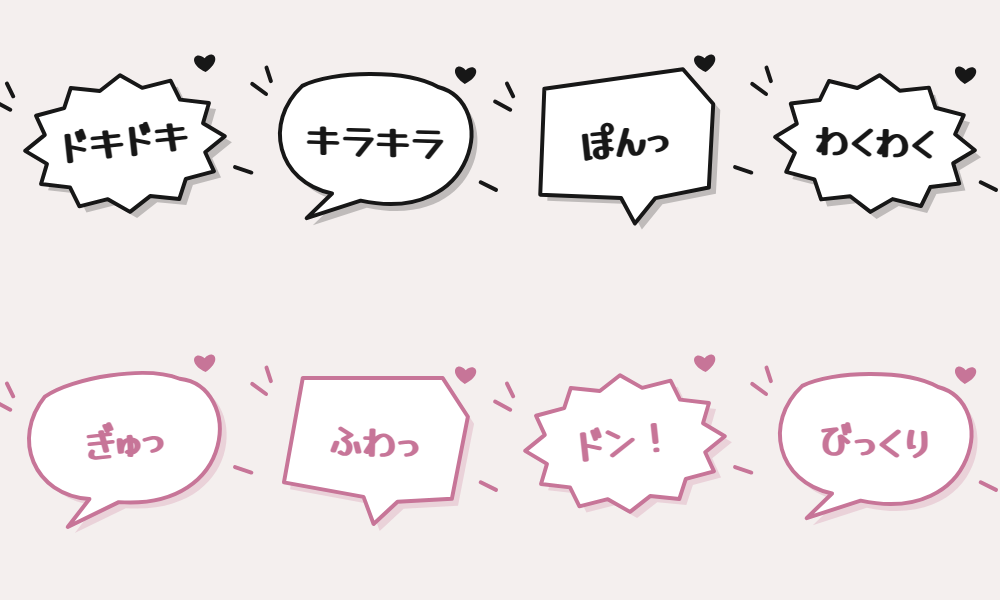
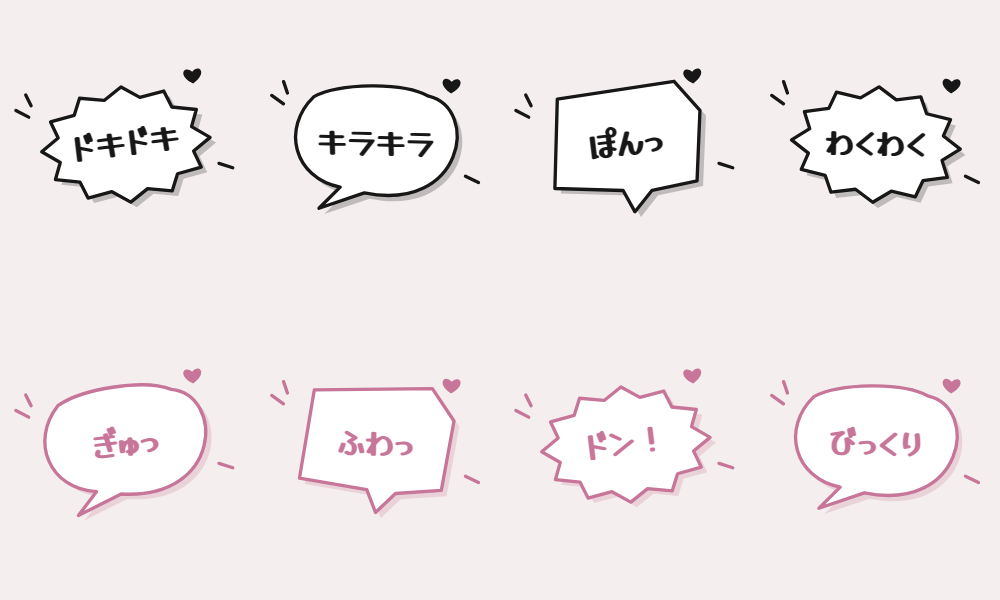
v2.12.0: handwritten Japanese and Chinese click effects and trails

diff --git a/index.js b/index.js
@@ -1,4 +1,4 @@
-import { mangaPacks, spawnManga, drawManga, prepareMangaFont } from './manga.js';
+import { mangaTrails, drawMangaTrail, mangaPacks, spawnManga, drawManga, prepareMangaFont } from './manga.js';
 import { celebrationPacks, celebrationMotions, modelMotions, spawnCelebration, drawCelebration } from './celebration.js';
 import { createOrdering } from './ordering.js';
 import { butterflyTrails, makeButterflyTrail, drawButterflyTrail } from './butterfly-trails.js';
@@ -49,6 +49,7 @@ function validatePack(p){
  if(p.motifs!==undefined){if(!Array.isArray(p.motifs)||!p.motifs.length||p.motifs.length>12||p.motifs.some(m=>!['pear','leaf','flower','heart','star'].includes(m)))throw Error('不支持的纯色图案。');v.motifs=[...p.motifs];}
  if(p.shape!==undefined){if(!['square','circle','diamond','star'].includes(p.shape))throw Error('不支持的粒子形状。');v.shape=p.shape;}
  if(p.motion!==undefined){if(!['flutter','fall','bubble','snow','music','ripple','wave','fountain','glitter','blossom','pixel-text','manga',...celebrationMotions].includes(p.motion))throw Error('不支持的运动方式。');v.motion=p.motion;}
+ if(p.motion==='manga'){if(p.mangaStyle!==undefined&&!['balloon','handwritten'].includes(p.mangaStyle))throw Error('漫画样式无效。');if(p.language!==undefined&&!['ja','zh'].includes(p.language))throw Error('漫画语言无效。');v.mangaStyle=p.mangaStyle||'balloon';v.language=p.language||'ja';}
  if(p.sparkles!==undefined){if(typeof p.sparkles!=='boolean')throw Error('小粒子开关无效。');v.sparkles=p.sparkles;}
  if(p.motion==='pixel-text'){if(!supportedLabels.includes(p.label)||!['pear','butterfly','leaf','sprite','flower','cross','pear-tint','spark'].includes(p.companions)||p.colors.length<2)throw Error('像素字或伴随图案无效。');if(p.companions==='sprite'&&!p.images.length)throw Error('缺少伴随图片。');v.label=p.label;v.companions=p.companions;}
  if(p.paired!==undefined){if(typeof p.paired!=='boolean'||(p.paired&&(p.images.length<2||p.images.length%2)))throw Error('双蝶标记无效。');v.paired=p.paired;}
@@ -86,7 +87,7 @@ const trailPacks=[
  {id:'neon',name:'赛博霓虹 · 光丝',colors:['#00f5ff','#ff21d0','#aa55ff'],glow:10},
  {id:'mono',name:'黑白 · 银线',colors:['#171717','#ffffff','#a8a8a8'],glow:0},
  {id:'pear',name:'梨梨 · 黄绿糖丝',colors:['#ffe66d','#a9dc65','#fff5bd'],glow:3},
- {id:'aurora',name:'极光 · 蓝紫流光',colors:['#a0e7ff','#baadff','#f3cbff'],glow:7}, ...ornamentTrails, pearTrail, pinkPearTrail, ...pixelTrails, ...butterflyTrails
+ {id:'aurora',name:'极光 · 蓝紫流光',colors:['#a0e7ff','#baadff','#f3cbff'],glow:7}, ...ornamentTrails, pearTrail, pinkPearTrail, ...pixelTrails, ...butterflyTrails, ...mangaTrails
 ];
 const activeTrails=()=>[selectedTrail(),...trailPacks.filter(p=>p.id===prefs.trailExtra&&p.id!==selectedTrail().id)];
 const selectedTrail=()=>trailPacks.find(p=>p.id===prefs.trailSelected)||trailPacks[0];
@@ -256,7 +257,7 @@ function spawnPack(p,x,y,rect,num,now){
 }
 function drawTrails(now){
  trails=trails.filter(p=>now-p.time<p.duration);ctx.save();ctx.lineCap='round';ctx.lineJoin='round';
- for(const p of trails){if(p.motif==='pixel-pear'||p.motif==='pixel-grass'){drawPixelTrail(ctx,p,now);continue;}if(p.motif==='butterfly'){drawButterflyTrail(ctx,p,now);continue;}if(p.motif==='pear-emoji'||p.motif==='pear-pink'){drawPearTrail(ctx,p,now);continue;}if(p.motif){drawOrnamentTrail(ctx,p,now);continue;}const t=(now-p.time)/p.duration,alpha=Math.pow(1-t,1.7);ctx.globalAlpha=alpha;
+ for(const p of trails){if(p.motif==='manga-lettering'){drawMangaTrail(ctx,p,now);continue;}if(p.motif==='pixel-pear'||p.motif==='pixel-grass'){drawPixelTrail(ctx,p,now);continue;}if(p.motif==='butterfly'){drawButterflyTrail(ctx,p,now);continue;}if(p.motif==='pear-emoji'||p.motif==='pear-pink'){drawPearTrail(ctx,p,now);continue;}if(p.motif){drawOrnamentTrail(ctx,p,now);continue;}const t=(now-p.time)/p.duration,alpha=Math.pow(1-t,1.7);ctx.globalAlpha=alpha;
   for(let i=0;i<p.amount;i++){const offset=(i-(p.amount-1)/2)*3*p.size,dx=p.x-p.px,dy=p.y-p.py,len=Math.hypot(dx,dy)||1,nx=-dy/len*offset,ny=dx/len*offset,color=p.colors[i%p.colors.length];ctx.strokeStyle=color;ctx.shadowColor=color;ctx.shadowBlur=p.glow;ctx.lineWidth=(1.8-i*.16)*p.size*(1-t*.55);ctx.beginPath();ctx.moveTo(p.px+nx,p.py+ny);ctx.quadraticCurveTo((p.px+p.x)/2+nx,(p.py+p.y)/2+ny,p.x+nx,p.y+ny);ctx.stroke();}
  }ctx.restore();
 }
@@ -267,7 +268,7 @@ function trailMove(x,y,target,state){
  const rect=!trails.length?raise(target):layer.getBoundingClientRect(),point={x:x-rect.left,y:y-rect.top,time:now,session:trailSession};state.last=point;
  if(!prev||prev.session!==trailSession||now-prev.time>140||Math.hypot(point.x-prev.x,point.y-prev.y)>160)return;
  if(Math.hypot(point.x-prev.x,point.y-prev.y)<2){state.last=prev;return;}
- state.emittedByPack??={};for(const p of activeTrails()){const emitted=state.emittedByPack[p.id];if(p.motif&&emitted&&emitted.session===trailSession&&now-emitted.time<(p.motif==='butterfly'?(prefs.lightweight?110:70):(p.motif==='pear-emoji'||p.motif==='pear-pink'||p.motif==='pixel-pear'||p.motif==='pixel-grass')?85:p.motif==='wave'?85:35))continue;state.emittedByPack[p.id]=point;const butterflies=p.motif==='butterfly'?makeButterflyTrail(p,Math.round(prefs.trailAmount),prefs.lightweight,loadImage):null;trails.push({...point,packId:p.id,butterflies,motif:p.motif,phase:Math.random()*Math.PI*2,px:prev.x,py:prev.y,duration:prefs.trailDuration,amount:prefs.lightweight?1:Math.round(prefs.trailAmount),size:prefs.trailSize,colors:p.colors,glow:prefs.lightweight?0:p.glow});}trails=trails.slice(-80);if(!raf)raf=host.requestAnimationFrame(frame);
+ state.emittedByPack??={};for(const p of activeTrails()){const emitted=state.emittedByPack[p.id];if(p.motif&&emitted&&emitted.session===trailSession&&now-emitted.time<(p.motif==='manga-lettering'?(prefs.lightweight?230:160):p.motif==='butterfly'?(prefs.lightweight?110:70):(p.motif==='pear-emoji'||p.motif==='pear-pink'||p.motif==='pixel-pear'||p.motif==='pixel-grass')?85:p.motif==='wave'?85:35))continue;state.emittedByPack[p.id]=point;const butterflies=p.motif==='butterfly'?makeButterflyTrail(p,Math.round(prefs.trailAmount),prefs.lightweight,loadImage):null;trails.push({...point,packId:p.id,language:p.language,variant:Math.floor(Math.random()*8),butterflies,motif:p.motif,phase:Math.random()*Math.PI*2,px:prev.x,py:prev.y,duration:prefs.trailDuration,amount:prefs.lightweight?1:Math.round(prefs.trailAmount),size:prefs.trailSize,colors:p.colors,glow:prefs.lightweight?0:p.glow});}trails=trails.slice(-80);if(!raf)raf=host.requestAnimationFrame(frame);
 }
 function clearTrail(){trails=[];trailSession++;}
 function inputHit(x,y,target,kind){totalHits++;lastInput=kind;lastActive=Date.now();if(!target?.closest?.('[data-lpx-preview]'))burst(x,y,target);}
@@ -387,7 +388,7 @@ function openManager(page='gallery',container=null){
  const row=el('label','lpx-row'),toggle=el('input');toggle.type='checkbox';toggle.checked=!!prefs.trailEnabled;row.append(toggle,doc.createTextNode('滑动拖尾'));listen(toggle,'change',()=>{prefs.trailEnabled=toggle.checked;clearTrail();persist();});body.append(row,el('p','lpx-muted','拖尾可以任选两款叠加，在下方试滑。点小爱心收藏置顶，↑↓ 调整同类顺序。'));
  const grid=el('div','lpx-gallery');body.append(grid);
  const pairLabel=el('label','lpx-upload-label','叠加第二款（拖尾）'),pair=el('select','lpx-input');pair.setAttribute('aria-label','叠加第二款拖尾');const none=el('option',null,'不叠加');none.value='';pair.append(none);for(const p of trailOrder.sort(trailPacks)){if(p.id===selectedTrail().id)continue;const option=el('option',null,p.name);option.value=p.id;pair.append(option);}pair.value=prefs.trailExtra||'';listen(pair,'change',()=>{prefs.trailExtra=pair.value;clearTrail();persist();show('trails');});pairLabel.append(pair);grid.before(pairLabel);
- const orderedTrails=trailOrder.sort(trailPacks);for(const p of orderedTrails){const card=el('article','lpx-card'+(activeTrails().some(q=>q.id===p.id)?' is-selected':'')),thumb=button('',()=>{prefs.trailSelected=p.id;if(prefs.trailExtra===p.id)prefs.trailExtra='';prefs.trailEnabled=true;clearTrail();persist();show('trails');tell('正在使用：'+p.name);},'lpx-thumb');thumb.setAttribute('aria-label','使用拖尾 '+p.name);thumb.dataset.lpxPreview='true';card.dataset.trailId=p.id;if(p.motif==='butterfly'){thumb.classList.add('lpx-contrast');for(let i=0;i<4;i++){const img=el('img');img.src=p.images[i];img.alt='';img.style.cssText=`left:${12+i*22}%;top:${25+i%2*22}%;filter:hue-rotate(${p.hues?.[i]||0}deg)`;thumb.append(img);}}else if(p.motif){thumb.classList.add('lpx-contrast');thumb.append(motifPreview(p.motif,p.colors));}else for(let i=0;i<3;i++){const line=el('i');line.style.cssText=`position:absolute;left:15%;top:${35+i*13}%;width:70%;height:2px;background:${p.colors[i]};transform:rotate(-12deg);border-radius:99px;box-shadow:0 0 ${p.glow}px ${p.colors[i]}`;thumb.append(line);}card.append(thumb,el('div','lpx-card-title',p.name),orderControls(p,trailOrder,trailPacks,orderedTrails,null,()=>show('trails')));grid.append(card);}
+ const orderedTrails=trailOrder.sort(trailPacks);for(const p of orderedTrails){const card=el('article','lpx-card'+(activeTrails().some(q=>q.id===p.id)?' is-selected':'')),thumb=button('',()=>{prefs.trailSelected=p.id;if(prefs.trailExtra===p.id)prefs.trailExtra='';prefs.trailEnabled=true;clearTrail();persist();show('trails');tell('正在使用：'+p.name);},'lpx-thumb');thumb.setAttribute('aria-label','使用拖尾 '+p.name);thumb.dataset.lpxPreview='true';card.dataset.trailId=p.id;if(p.motif==='butterfly'){thumb.classList.add('lpx-contrast');for(let i=0;i<4;i++){const img=el('img');img.src=p.images[i];img.alt='';img.style.cssText=`left:${12+i*22}%;top:${25+i%2*22}%;filter:hue-rotate(${p.hues?.[i]||0}deg)`;thumb.append(img);}}else if(p.motif==='manga-lettering'){const c=el('canvas');c.width=280;c.height=160;c.style.cssText='width:100%;height:100%';const paint=()=>{const cx=c.getContext('2d');cx.clearRect(0,0,280,160);for(let i=0;i<3;i++)drawMangaTrail(cx,{...p,x:48+i*90,y:82+Math.sin(i)*10,time:0,duration:1000,size:1.5,variant:i},300);};paint();prepareMangaFont(doc).then(paint);thumb.append(c);}else if(p.motif){thumb.classList.add('lpx-contrast');thumb.append(motifPreview(p.motif,p.colors));}else for(let i=0;i<3;i++){const line=el('i');line.style.cssText=`position:absolute;left:15%;top:${35+i*13}%;width:70%;height:2px;background:${p.colors[i]};transform:rotate(-12deg);border-radius:99px;box-shadow:0 0 ${p.glow}px ${p.colors[i]}`;thumb.append(line);}card.append(thumb,el('div','lpx-card-title',p.name),orderControls(p,trailOrder,trailPacks,orderedTrails,null,()=>show('trails')));grid.append(card);}
  const pad=el('div','lpx-trail-pad','在这里滑一滑 ✧');pad.dataset.lpxPreview='true';body.append(pad,button('调整拖尾数量与大小',()=>show('settings')));
  }
  function renderUpload(){
@@ -484,7 +485,7 @@ listen(doc,'visibilitychange',()=>{if(!doc.hidden)recoverEntries();else{particle
 listen(doc,'pointerdown',e=>{if(e.target?.closest?.('#extensionsMenuButton,#extensions-settings-button,#extensionsMenu,#extensions_settings,#extensions_settings2'))recoverEntries();},{capture:true,passive:true});
 listen(doc,'click',e=>{if(e.target?.closest?.('#extensionsMenuButton,#extensions-settings-button'))recoverEntries();},{capture:true,passive:true});
 function destroy(){if(stopped)return;stopped=true;clearWaterCache();clearTrail();particles=[];abort.abort();observer.disconnect();host.clearInterval(interval);timers.forEach(id=>host.clearTimeout(id));if(raf)host.cancelAnimationFrame(raf);if(scanFrame)host.cancelAnimationFrame(scanFrame);closeManager();layer.remove();sheet.remove();panelEntry?.remove();wandEntry?.remove();disposers.forEach(fn=>{try{fn();}catch{}});if(host[KEY]?.destroy===destroy)delete host[KEY];if(host.__liSparkling?.destroy===destroy){delete host.__liSparkling;host.dispatchEvent(new host.Event('li-sparkling:change'));}}
-host[KEY]={owner:'li-sparkling',apiVersion:1,version:'2.11.0',isAvailable:()=>!stopped,mount:container=>openManager('gallery',container),unmount:container=>{if(container&&manager?.parentElement===container)closeManager();},destroy,openManager,importPacks,renamePack,deletePack,exportPack:async()=>({format:'lili-click-effects',version:1,packs:[await portablePack(selected())]}),getDiagnostics:()=>({hits:totalHits,input:lastInput,particles:particles.length,trails:trails.length,trail:selectedTrail().id,activeTrails:activeTrails().map(p=>p.id),trailPackIds:[...new Set(trails.map(p=>p.packId))],trailEnabled:prefs.trailEnabled,canvasReady:!!ctx,theme:themeActive(),pack:selected().id,activePacks:activePacks().map(p=>p.id),images:selected().images.map((s,i)=>({ready:loadImage(s,selected().hues?.[i]||0).ready,error:loadImage(s,selected().hues?.[i]||0).error}))})};
+host[KEY]={owner:'li-sparkling',apiVersion:1,version:'2.12.0',isAvailable:()=>!stopped,mount:container=>openManager('gallery',container),unmount:container=>{if(container&&manager?.parentElement===container)closeManager();},destroy,openManager,importPacks,renamePack,deletePack,exportPack:async()=>({format:'lili-click-effects',version:1,packs:[await portablePack(selected())]}),getDiagnostics:()=>({hits:totalHits,input:lastInput,particles:particles.length,trails:trails.length,trail:selectedTrail().id,activeTrails:activeTrails().map(p=>p.id),trailPackIds:[...new Set(trails.map(p=>p.packId))],trailEnabled:prefs.trailEnabled,canvasReady:!!ctx,theme:themeActive(),pack:selected().id,activePacks:activePacks().map(p=>p.id),images:selected().images.map((s,i)=>({ready:loadImage(s,selected().hues?.[i]||0).ready,error:loadImage(s,selected().hues?.[i]||0).error}))})};
 host.__liSparkling=host[KEY];
 host.dispatchEvent(new host.Event('li-sparkling:change'));
 if(window!==host){

diff --git a/manga.js b/manga.js
@@ -1,16 +1,20 @@
 // Original vector speech balloons; Japanese lettering stays selectable in pack metadata.
 export const mangaWords=['ドキドキ','キラキラ','ぽんっ','わくわく','ぎゅっ','ふわっ','ドン！','びっくり'];
-export const mangaPacks=[['mono','黑白','#171717','#ffffff'],['pink','粉白','#c77598','#ffffff']].map(([id,name,ink,paper])=>({id:'lili-manga-'+id,name:name+' · 日文漫画对白',motion:'manga',images:[],colors:[ink,paper],count:1,size:64,duration:1800,spread:90,lift:45}));
+export const mangaPacks=[['mono','黑白','#171717','#ffffff'],['pink','粉白','#c77598','#ffffff']].map(([id,name,ink,paper])=>({id:'lili-manga-'+id,name:name+' · 日文漫画对白',motion:'manga',images:[],colors:[ink,paper],count:1,size:54,duration:1800,spread:90,lift:45}));
+export const handwrittenWords={ja:['ドキッ','ぎゅっ','ふわっ','きゅん','ぽんっ','わくわく','キラッ','ぴょん'],zh:['怦怦','啾～','哇！','呜哇','嘿嘿','喵呜','抱抱','贴贴']};
+for(const [language,label] of [['ja','日文'],['zh','中文']])for(const [color,name,ink] of [['mono','黑白','#171717'],['pink','粉白','#cc759d']])mangaPacks.push({id:`lili-handwritten-${language}-${color}`,name:`${name} · ${label}手写拟声词`,motion:'manga',mangaStyle:'handwritten',language,images:[],colors:[ink,'#ffffff'],count:1,size:52,duration:1700,spread:90,lift:45});
+export const mangaTrails=mangaPacks.filter(p=>p.mangaStyle==='handwritten').map(p=>({id:p.id.replace('lili-','')+'-trail',name:p.name+' · 拖尾',motif:'manga-lettering',language:p.language,colors:p.colors,glow:0}));
 export function spawnManga(pack,x,y,now,scale,width,height,variant=Math.floor(Math.random()*mangaWords.length)){
  const size=Math.min(pack.size*scale,width/3.2,height/3.2),pad=size*1.4;
- return {kind:'manga',x:Math.max(pad,Math.min(width-pad,x)),y:Math.max(pad,Math.min(height-pad,y)),size,start:now,duration:pack.duration,colors:pack.colors,variant};
+ return {mangaStyle:pack.mangaStyle,language:pack.language||'ja',kind:'manga',x:Math.max(pad,Math.min(width-pad,x)),y:Math.max(pad,Math.min(height-pad,y)),size,start:now,duration:pack.duration,colors:pack.colors,variant};
 }
 export function drawManga(ctx,p,now){
  const t=(now-p.start)/p.duration;if(t<=0||t>=1)return;
- ctx.save();ctx.translate(p.x,p.y-p.size*.28*t);ctx.rotate((p.variant%2?1:-1)*.07+Math.sin(t*12)*.018);
+ ctx.save();ctx.translate(p.x+Math.sin(t*52)*1.3*(1-t),p.y-p.size*.28*t);ctx.rotate((p.variant%2?1:-1)*.07+Math.sin(t*42)*.027*(1-t));
  const pop=t<.16?.65+.42*Math.sin(t/.16*Math.PI/2):1+.07*Math.exp(-(t-.16)*14);
  ctx.scale(p.size/64*pop,p.size/64*pop);ctx.globalAlpha=Math.min(1,t/.045)*Math.min(1,(1-t)/.25);
  const ink=p.colors[0],paper=p.colors[1]||'#ffffff';ctx.lineJoin='round';ctx.lineCap='round';
+ if(p.mangaStyle==='handwritten'){drawHandwritten(ctx,p,t);ctx.restore();return;}
  const balloon=()=>{ctx.beginPath();if(p.variant%3===0){for(let i=0;i<24;i++){const a=i/24*Math.PI*2,r=i%2?.82:1;const x=Math.cos(a)*76*r,y=Math.sin(a)*52*r;i?ctx.lineTo(x,y):ctx.moveTo(x,y);}ctx.closePath();}else if(p.variant%3===1){ctx.moveTo(-58,-40);ctx.bezierCurveTo(-86,-10,-72,34,-30,40);ctx.lineTo(-48,60);ctx.lineTo(-8,44);ctx.bezierCurveTo(82,57,92,-37,45,-46);ctx.bezierCurveTo(20,-58,-36,-53,-58,-40);ctx.closePath();}else{ctx.moveTo(-58,-46);ctx.lineTo(48,-53);ctx.lineTo(69,-25);ctx.lineTo(61,38);ctx.lineTo(20,43);ctx.lineTo(3,61);ctx.lineTo(-6,41);ctx.lineTo(-67,34);ctx.closePath();}};
  ctx.save();ctx.translate(5,5);balloon();ctx.globalAlpha*=.24;ctx.fillStyle=ink;ctx.fill();ctx.restore();balloon();ctx.fillStyle=paper;ctx.fill();ctx.strokeStyle=ink;ctx.lineWidth=3;ctx.stroke();
  // Two small speed accents and a drawn heart keep the decoration consistent on Android.
@@ -20,7 +24,25 @@ export function drawManga(ctx,p,now){
  const fit=Math.min(1,112/ctx.measureText(word).width);ctx.save();ctx.scale(fit,1);ctx.rotate(-.035);ctx.fillText(word,0,-2);ctx.restore();ctx.restore();
 }
 
-let fontReady;
+function heart(ctx,x,y,size,ink,paper){
+ ctx.save();ctx.translate(x,y);ctx.scale(size/24,size/24);ctx.beginPath();ctx.moveTo(0,9);ctx.bezierCurveTo(-26,-7,-12,-24,0,-11);ctx.bezierCurveTo(12,-24,26,-7,0,9);ctx.lineWidth=4;ctx.strokeStyle=paper;ctx.stroke();ctx.fillStyle=ink;ctx.fill();ctx.restore();
+}
+function drawHandwritten(ctx,p,t){
+ const ink=p.colors[0],paper=p.colors[1]||'#ffffff',word=handwrittenWords[p.language||'ja'][p.variant%8],chars=[...word],vertical=p.variant%2===0;
+ ctx.font=`${p.language==='zh'?'400':'900'} 42px "${p.language==='zh'?'Lili Brush CN':'Lili Manga'}",sans-serif`;ctx.textAlign='center';ctx.textBaseline='middle';ctx.lineJoin='round';
+ for(let i=0;i<chars.length;i++){
+  ctx.save();const step=vertical?29:32;ctx.translate(vertical?Math.sin(i*1.9)*7:(i-(chars.length-1)/2)*step,vertical?(i-(chars.length-1)/2)*step:Math.sin(i*1.6)*7);ctx.rotate((i%2?1:-1)*.12+Math.sin(t*40+i)*.025);const size=i===0?1.2:i===chars.length-1?.8:1;ctx.scale(size,size);
+  ctx.strokeStyle=paper;ctx.lineWidth=5;ctx.strokeText(chars[i],0,0);ctx.fillStyle=ink;ctx.fillText(chars[i],0,0);ctx.restore();
+ }
+ const hx=vertical?33:chars.length*16+6,hy=vertical?-35:-20;
+ heart(ctx,hx,hy+Math.sin(t*14)*3,12,ink,paper);heart(ctx,-hx,30+Math.sin(t*15+1)*3,8,ink,paper);
+ ctx.strokeStyle=ink;ctx.lineWidth=2.1;const jitter=Math.sin(t*48)*2;
+ for(const sign of [-1,1]){ctx.beginPath();const x=sign*(vertical?35:chars.length*16+4);ctx.moveTo(x,7+jitter);ctx.quadraticCurveTo(x+sign*8,13+jitter,x+sign*2,19+jitter);ctx.moveTo(x+sign*7,5+jitter);ctx.quadraticCurveTo(x+sign*15,13+jitter,x+sign*9,23+jitter);ctx.stroke();}
+}
+export function drawMangaTrail(ctx,p,now){
+ drawManga(ctx,{kind:'manga',mangaStyle:'handwritten',language:p.language,x:p.x,y:p.y,start:p.time,duration:p.duration,size:26*p.size,colors:p.colors,variant:p.variant||0},now);
+}
+const fontDocuments=new WeakMap();
 export function prepareMangaFont(doc){
- if(!fontReady){const face=new doc.defaultView.FontFace('Lili Manga',`url(${new URL('./assets/manga-jp.ttf',import.meta.url).href})`);doc.fonts.add(face);fontReady=face.load().catch(()=>null);}return fontReady;
+ if(!fontDocuments.has(doc)){const promises=[['Lili Manga','manga-jp.ttf'],['Lili Brush CN','manga-cn.ttf']].map(([family,file])=>{const face=new doc.defaultView.FontFace(family,`url(${new URL('./assets/'+file,import.meta.url).href})`);doc.fonts.add(face);return face.load().catch(()=>null);});fontDocuments.set(doc,Promise.all(promises));}return fontDocuments.get(doc);
 }

diff --git a/groups.js b/groups.js
@@ -1,7 +1,7 @@
 // Group membership belongs to the user's library, not the effect artwork.
 export const ungrouped = 'ungrouped';
 const defaults = [
- ['manga','日文漫画'],['stars','星星与星屑'],['flowers','蓝色小花'],['hearts','爱心与闪光'],['pixels','像素粒子'],['butterflies','蝴蝶'],
+ ['manga','漫画拟声词'],['stars','星星与星屑'],['flowers','蓝色小花'],['hearts','爱心与闪光'],['pixels','像素粒子'],['butterflies','蝴蝶'],
  ['bubbles','泡泡'],['music','音符'],['snow','雪花'],['rain','雨滴涟漪'],
  ['neon','霓虹'],['pear','梨梨与黄绿'],[ungrouped,'未分组'],
 ].map(([id,name])=>({id,name}));
@@ -26,14 +26,15 @@ function automatic(pack){
  return ungrouped;
 }
 export function createGroups(saved, save){
- const valid=[1,2,3].includes(saved?.version)&&Array.isArray(saved.groups);
- let state={version:3,groups:valid?saved.groups.filter(g=>g&&/^[a-z0-9_-]{1,64}$/.test(g.id)&&typeof g.name==='string'&&g.name.trim()).slice(0,30).map(g=>({id:g.id,name:g.name.slice(0,20)})):defaults.map(g=>({...g})),assignments:{}};
+ const valid=[1,2,3,4].includes(saved?.version)&&Array.isArray(saved.groups);
+ let state={version:4,groups:valid?saved.groups.filter(g=>g&&/^[a-z0-9_-]{1,64}$/.test(g.id)&&typeof g.name==='string'&&g.name.trim()).slice(0,30).map(g=>({id:g.id,name:g.name.slice(0,20)})):defaults.map(g=>({...g})),assignments:{}};
  if(valid&&saved.version===1)for(const g of defaults.filter(g=>['stars','flowers'].includes(g.id)))if(!state.groups.some(v=>v.id===g.id))state.groups.push({...g});
- if(valid&&saved.version<3&&!state.groups.some(g=>g.id==='manga'))state.groups.push({id:'manga',name:'日文漫画'});
+ if(valid&&saved.version<3&&!state.groups.some(g=>g.id==='manga'))state.groups.push({id:'manga',name:'漫画拟声词'});
+ if(valid&&saved.version<4)state.groups=state.groups.map(g=>g.id==='manga'&&g.name==='日文漫画'?{...g,name:'漫画拟声词'}:g);
  state.groups=state.groups.filter((g,i,a)=>a.findIndex(v=>v.id===g.id)===i);
  if(!state.groups.some(g=>g.id===ungrouped))state.groups.push({id:ungrouped,name:'未分组'});
  if(saved?.assignments&&typeof saved.assignments==='object')for(const [id,group]of Object.entries(saved.assignments))if(/^[\w-]{1,100}$/.test(id)&&state.groups.some(g=>g.id===group))state.assignments[id]=group;
- if(valid&&saved.version<3)save(state);
+ if(valid&&saved.version<4)save(state);
  const commit=next=>{if(!save(next))throw Error('分组保存失败，请检查浏览器存储空间。');state=next;};
  const nameFor=(name,except)=>{name=String(name).trim();if(!name||name.length>20)throw Error('组名需要 1～20 个字。');if(state.groups.some(g=>g.id!==except&&g.name===name))throw Error('已经有同名分组啦。');return name;};
  const api={

diff --git a/README.md b/README.md
@@ -1,6 +1,6 @@
 # 梨梨 · 点击与拖尾特效
 
-SillyTavern 原生前端扩展，版本 **2.11.0**。点击绽放小图案，滑动留下细细的拖尾；手机触屏和电脑鼠标都可用。
+SillyTavern 原生前端扩展，版本 **2.12.0**。点击绽放小图案，滑动留下细细的拖尾；手机触屏和电脑鼠标都可用。
 
 ## 安装
 
@@ -20,7 +20,7 @@ https://github.com/pear-winter/li-sparkling
 
 ## 内置特效
 
-共 **69 款点击特效 + 26 组拖尾**。
+共 **73 款点击特效 + 30 组拖尾**。
 
 | 类别 | 款式与表现 |
 | --- | --- |
@@ -197,3 +197,12 @@ python3 scripts/generate-seasonal.py
 - 漫画字使用随扩展安装的 Yusei Magic 字体子集（SIL OFL，见 assets/YuseiMagic-LICENSE.txt），避免手机缺少日文字形；运行时无需联网下载。
 
 ![日文漫画黑白与粉白效果预览](docs/manga-preview.png)
+
+## 2.12.0 更新
+
+- 无框手写拟声词：日文、中文各有黑白和粉白两款；随机竖排／横排，字形大小错落，带小爱心和轻微抖动线。
+- 四款手写字各有独立拖尾，沿轨迹间隔发射，支持任意两款拖尾叠加；省电模式降低发射频率。
+- 原对白框版本默认大小由 64 调整为 54（缩小约 16%），保留爱心，增加轻抖动。
+- 中文使用随扩展安装的 Ma Shan Zheng 手写字体子集（SIL OFL，见 assets/MaShanZheng-LICENSE.txt），日文使用 Yusei Magic；参考图仅用于风格观察，不使用截图和水印素材。
+
+![中日文手写字与拖尾](docs/handwritten-preview.png)
